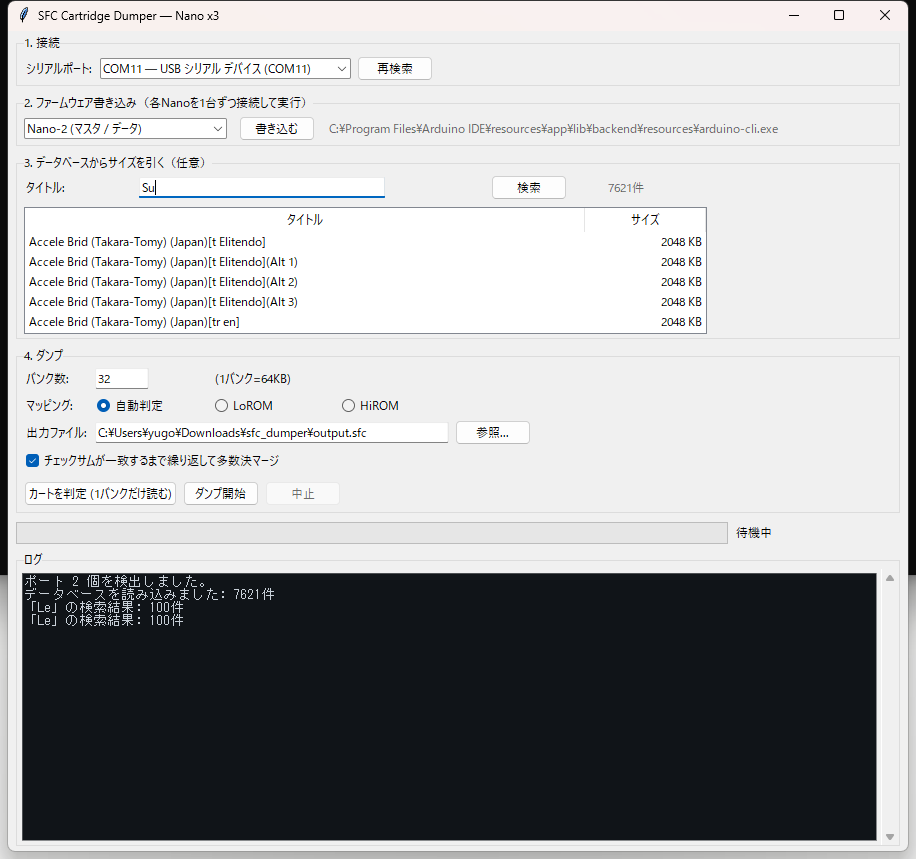
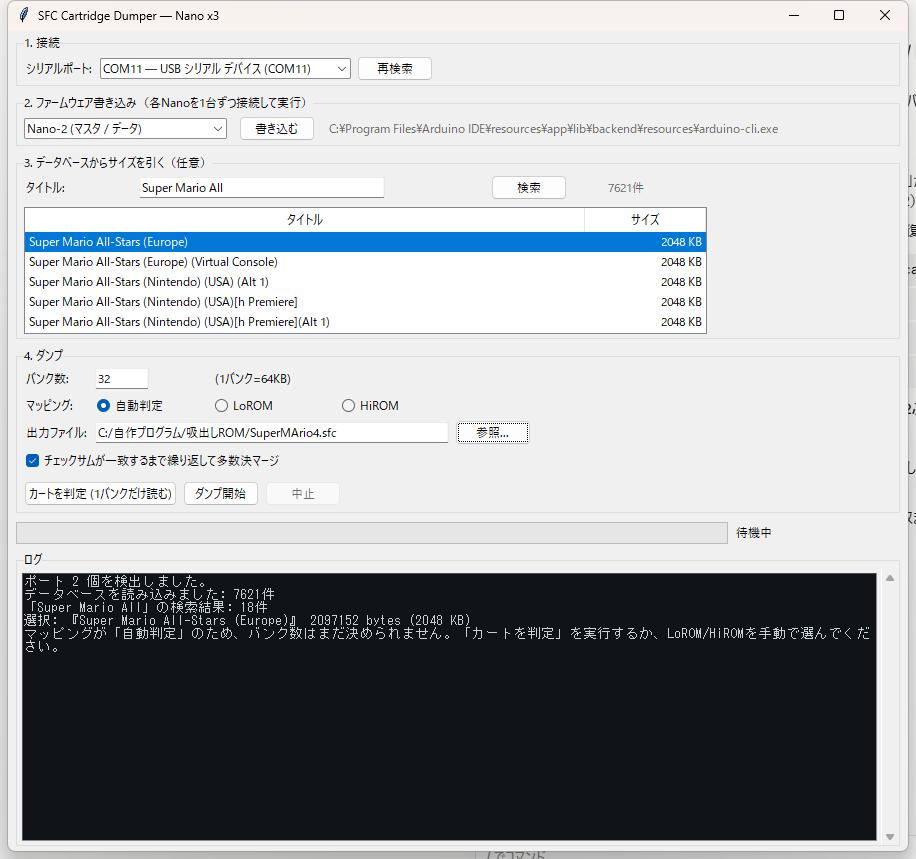
Fix merge strategy: read errors are one-directional bit drops
Comparing samples showed every observed value at a disputed position is a
bit-subset of one maximal value (e.g. 0x83 / 0x82 / 0x02 / 0x00) - ones
fall to zero, zeros never rise. The ROM briefly fails to drive the bus.

Majority voting cannot converge under this failure mode: wherever the
dropped-bit reading is in the majority, it locks in the wrong value. A
bitwise OR across samples recovers the dropped bits and approaches the
true value monotonically. Measured on Super Mario Collection (7 samples):
OR landed 682 away from the expected checksum while majority was far off.

Both the CLI and GUI now try OR first and fall back to majority. Also
refreshes the README screenshot and documents the finding.

diff --git a/gui/sfc_dumper_gui.py b/gui/sfc_dumper_gui.py
@@ -129,6 +129,21 @@ def majority_merge(samples):
     return bytes(merged), disputed
 
 
+def or_merge(samples):
+    """全サンプルのビットORを取る。
+
+    実測すると、このリーダーの読み取り誤りは「本来1のビットが0に落ちる」方向にしか
+    起きない（ROMが一瞬バスを駆動しきれず0で読まれる）。そのためORが真の値に単調に
+    近づく。多数決はビット落ちが多数派になった位置で誤った値に固定されるため収束しない。
+    """
+    n = len(samples[0])
+    merged = bytearray(samples[0])
+    for s in samples[1:]:
+        for i in range(n):
+            merged[i] |= s[i]
+    return bytes(merged)
+
+
 # ---------------------------------------------------------------- GUI
 
 class DumperApp(tk.Tk):
@@ -222,7 +237,7 @@ class DumperApp(tk.Tk):
         ttk.Button(dump, text="参照...", command=self.choose_output).grid(row=2, column=4, padx=6)
 
         self.repeat_var = tk.BooleanVar(value=True)
-        ttk.Checkbutton(dump, text="チェックサムが一致するまで繰り返して多数決マージ",
+        ttk.Checkbutton(dump, text="チェックサムが一致するまで繰り返してマージ（OR / 多数決）",
                         variable=self.repeat_var).grid(row=3, column=0, columnspan=4, sticky="w", padx=6, pady=4)
 
         btns = ttk.Frame(dump)
@@ -540,25 +555,34 @@ class DumperApp(tk.Tk):
                 self.log(f"自動判定: {mapping.upper()}")
 
             roms = [extract_rom(r, mapping) for r in self.samples]
-            if len(roms) == 1:
-                merged, disputed = roms[0], 0
-            else:
-                self.status_var.set("マージ中...")
-                merged, disputed = majority_merge(roms)
+            self.status_var.set("マージ中...")
 
-            ok, computed, expected = verify_checksum(merged, mapping)
-            self.log(f"サンプル{len(roms)}個 / 不一致バイト{disputed} / "
-                     f"計算値={hex(computed) if computed is not None else 'NA'} "
-                     f"期待値={hex(expected) if expected is not None else 'NA'} → "
-                     f"{'一致' if ok else '不一致'}")
+            # ビット落ち方向の誤りが主なのでORを先に試し、駄目なら多数決も見る。
+            candidates = [("OR", or_merge(roms))]
+            disputed = 0
+            if len(roms) > 1:
+                maj, disputed = majority_merge(roms)
+                candidates.append(("多数決", maj))
 
-            if ok:
+            hit = None
+            for label, cand in candidates:
+                ok, computed, expected = verify_checksum(cand, mapping)
+                self.log(f"[{label}] サンプル{len(roms)}個 / 不一致バイト{disputed} / "
+                         f"計算値={hex(computed) if computed is not None else 'NA'} "
+                         f"期待値={hex(expected) if expected is not None else 'NA'} → "
+                         f"{'一致' if ok else '不一致'}")
+                if ok and hit is None:
+                    hit = (label, cand)
+
+            if hit:
+                label, merged = hit
                 with open(out, "wb") as f:
                     f.write(merged)
-                self.log(f"完了: {out} ({len(merged)} bytes) を保存しました。")
+                self.log(f"完了: {label}マージで一致。{out} ({len(merged)} bytes) を保存しました。")
                 self.after(0, lambda: messagebox.showinfo(
-                    "ダンプ成功", f"チェックサム一致。\n{out}"))
+                    "ダンプ成功", f"チェックサム一致（{label}マージ）。\n{out}"))
                 return
+            merged = candidates[0][1]
 
             if not repeat:
                 path = out + ".unverified"

diff --git a/host/dump_until_valid.py b/host/dump_until_valid.py
@@ -104,6 +104,21 @@ def majority_merge(samples):
     return bytes(merged), disputed
 
 
+def or_merge(samples):
+    """全サンプルのビットORを取る。
+
+    実測すると、このリーダーの読み取り誤りは「本来1のビットが0に落ちる」方向にしか
+    起きない（ROMが一瞬バスを駆動しきれず、そのビットが0で読まれる）。
+    そのためORを取ると真の値に単調に近づく。多数決より圧倒的に速く収束する。
+    """
+    n = len(samples[0])
+    merged = bytearray(samples[0])
+    for s in samples[1:]:
+        for i in range(n):
+            merged[i] |= s[i]
+    return bytes(merged)
+
+
 def main():
     args = parse_args()
     work = args.work or (args.out + ".work")
@@ -126,16 +141,30 @@ def main():
     for round_no in range(1, args.max_rounds + 1):
         if raws:
             roms = [extract_rom(r, args.mapping) for r in raws]
-            merged, disputed = majority_merge(roms) if len(roms) > 1 else (roms[0], 0)
-            ok, computed, expected = verify(merged, args.mapping)
-            print(f"[判定] サンプル{len(raws)}個 / 不一致バイト{disputed} / "
-                  f"計算値={hex(computed) if computed is not None else 'NA'} "
-                  f"期待値={hex(expected) if expected is not None else 'NA'} -> "
-                  f"{'一致' if ok else '不一致'}", flush=True)
-            if ok:
+            # OR を先に試す。誤りがビット落ち方向のみなので通常はこちらが当たる。
+            candidates = [("OR", or_merge(roms))]
+            if len(roms) > 1:
+                maj, disputed = majority_merge(roms)
+                candidates.append(("多数決", maj))
+            else:
+                disputed = 0
+
+            hit = None
+            for label, cand in candidates:
+                ok, computed, expected = verify(cand, args.mapping)
+                print(f"[判定/{label}] サンプル{len(raws)}個 / 不一致バイト{disputed} / "
+                      f"計算値={hex(computed) if computed is not None else 'NA'} "
+                      f"期待値={hex(expected) if expected is not None else 'NA'} -> "
+                      f"{'一致' if ok else '不一致'}", flush=True)
+                if ok and hit is None:
+                    hit = (label, cand)
+
+            if hit:
+                label, merged = hit
                 with open(args.out, "wb") as f:
                     f.write(merged)
-                print(f"成功: {args.out} ({len(merged)} bytes) を保存しました。", flush=True)
+                print(f"成功: {label}マージで一致。{args.out} ({len(merged)} bytes) を保存しました。",
+                      flush=True)
                 return 0
 
         idx = len(raws) + 1

diff --git a/README.md b/README.md
@@ -124,6 +124,27 @@ DBを使う利点は、**ヘッダの自己申告が2の累乗に切り上げら
 - ROMのアクセスタイム自体は120〜200ns程度だが、長い配線の寄生容量を考慮して
   `/RD`アサート後の待ち時間は100usと大きめに取っている
 
+### 読み取り誤りは「ビット落ち」の一方向だった（重要）
+
+複数回ダンプして突き合わせると、同じ位置で観測される値が
+`0x83` / `0x82` / `0x02` / `0x00` のように**すべて `0x83` のビットの部分集合**になっていました。
+つまり **1のビットが0に落ちることはあっても、0が1になることはない**。
+ROMが一瞬バスを駆動しきれず、そのビットが0として読まれている状態です。
+
+この誤りモードでは**多数決マージは原理的に収束しません**。あるビットが落ちたサンプルが
+過半数を占めた位置では、多数決は誤った値を選び続けます。
+
+正解は**全サンプルのビットOR**です。落ちたビットは他のサンプルで1になっていれば復活し、
+真の値に単調に近づきます。実測（Super Mario Collection / 7サンプル）:
+
+| マージ方式 | 計算チェックサム | 期待値 `0x4bca` との差 |
+|---|---|---|
+| 多数決 | `0xfbe2` | 大きく外れる |
+| AND | `0x281b` | 大きく外れる |
+| **OR** | **`0x4920`** | **わずか682** |
+
+本プロジェクトのマージ処理は、ORを先に試して駄目なら多数決も評価する形にしてあります。
+
 ### 対応できないカート
 
 Super FX / SA-1 / DSP-1 / S-DD1 / SPC7110 / CX4 などの**コプロセッサ搭載カートは読めません**。
